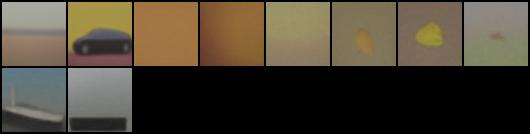
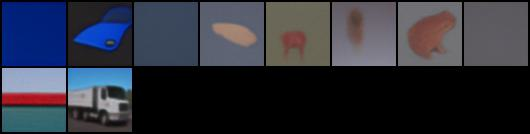
updated readme and added new samples

diff --git a/README.md b/README.md
@@ -3,6 +3,7 @@
 ## Papers implemented
 
 - [Denoising Diffusion Probabilistic Models](https://arxiv.org/abs/2006.11239)
+- [CLASSIFIER-FREE DIFFUSION GUIDANCE](https://arxiv.org/abs/2207.12598)
 
 
 ## Results
@@ -24,14 +25,16 @@
 
 #### Some early results
 
-NO EMA, YES CFG  
-
+  
+##### without EMA 
 ![](samples/ddpm_conditional_0.jpg)
 ![](samples/ddpm_conditional_1.jpg)
 
-YES EMA, YES CFG  
+##### with EMA (Exponential Moving Average)
 ![](samples/ddpm_conditional_ema_0.jpg)
 ![](samples/ddpm_conditional_ema_1.jpg)
+
+## Clearly the results with EMA are much better :)
 
 ---
 ## Dataset used
